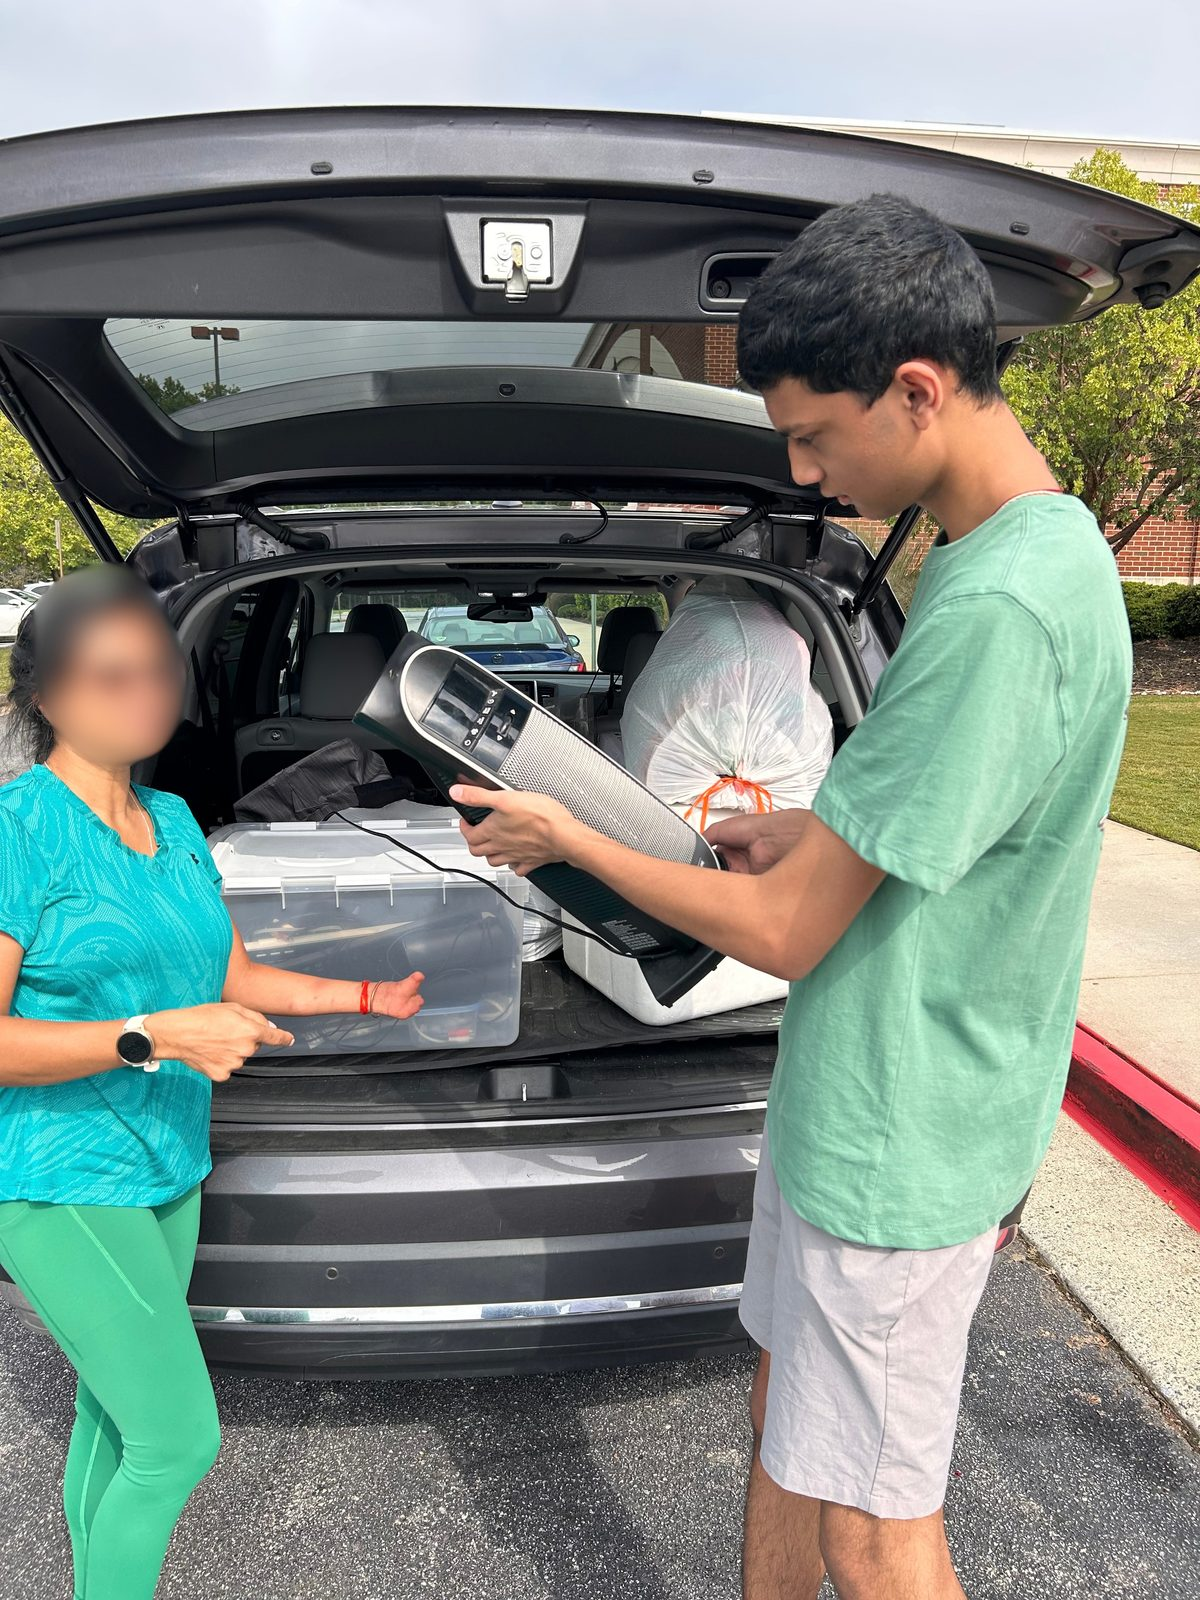
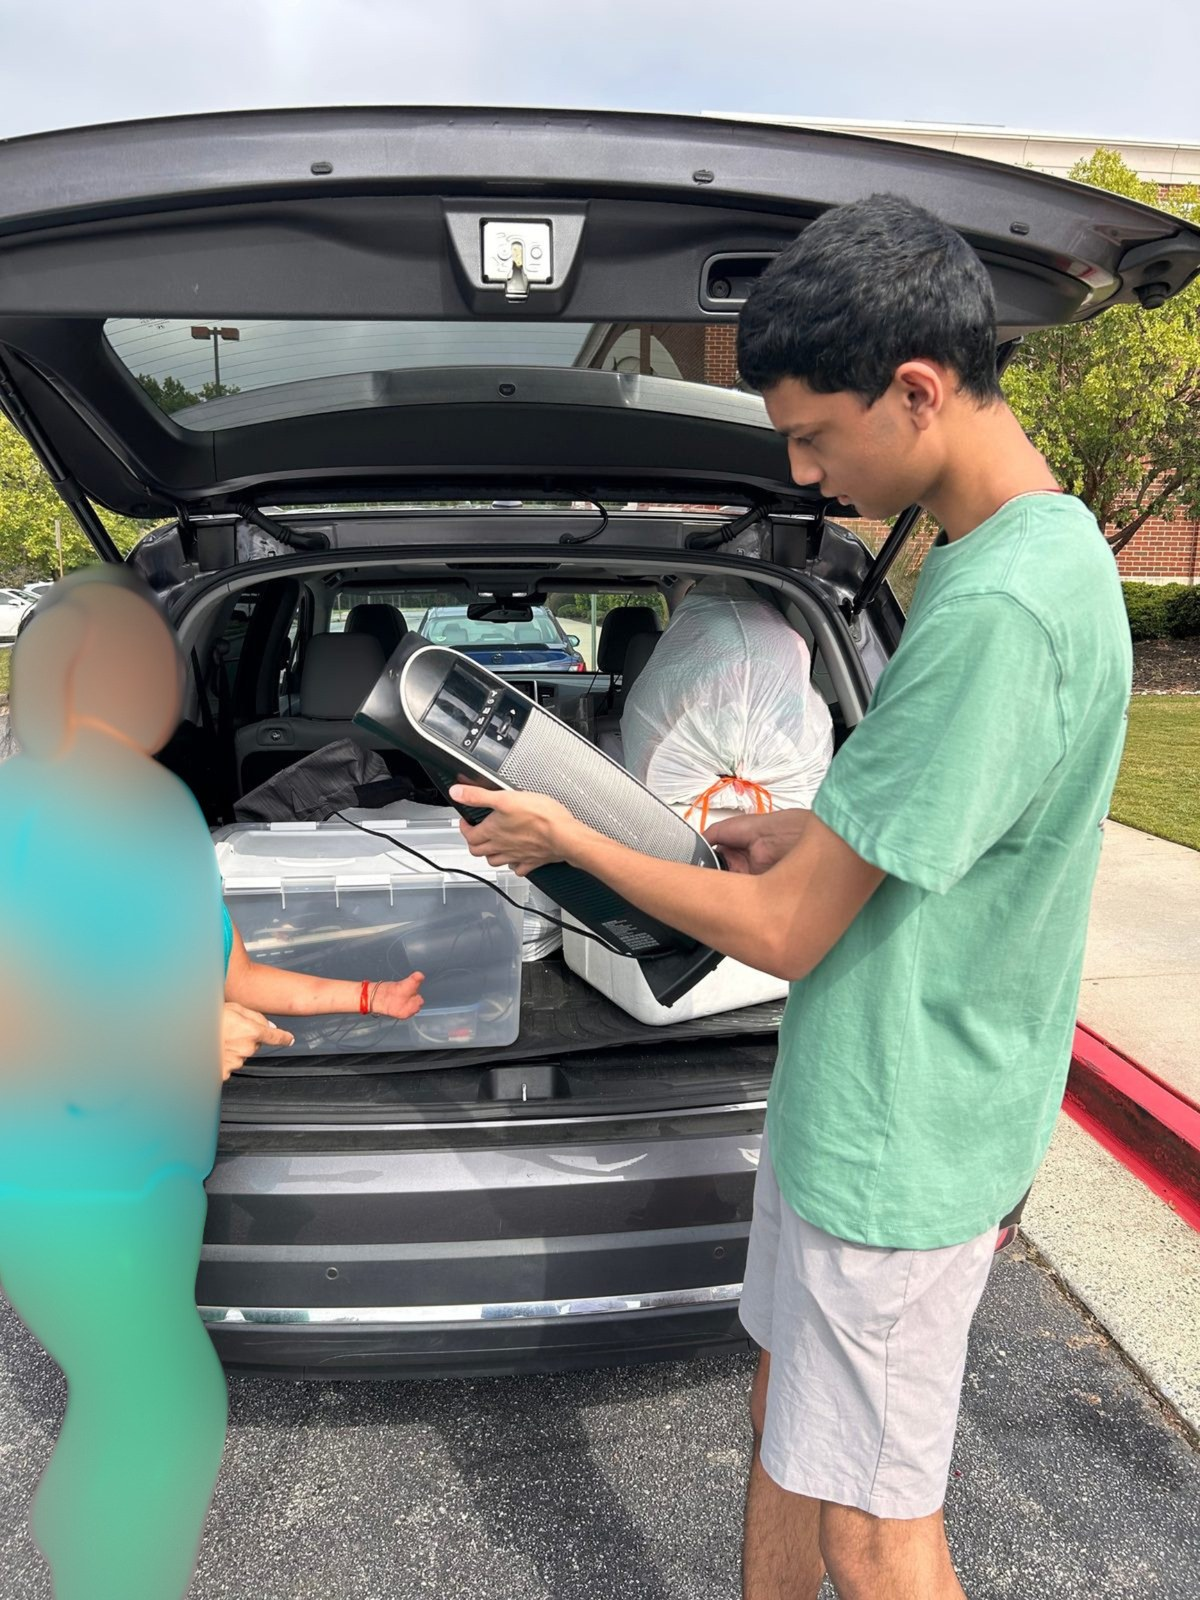
Update trunk-side gallery photo with revised image.

diff --git a/constants/gallery.ts b/constants/gallery.ts
@@ -34,7 +34,7 @@ export const galleryItems: GalleryItem[] = [
     title: 'Trunk-side handoff',
     caption:
       'A donor meets us at the curb—tower units and a bin of cables leave the car for a second life.',
-    aspectRatio: 1200 / 1600,
+    aspectRatio: 1200 / 1600
   },
   {
     id: '3903',
